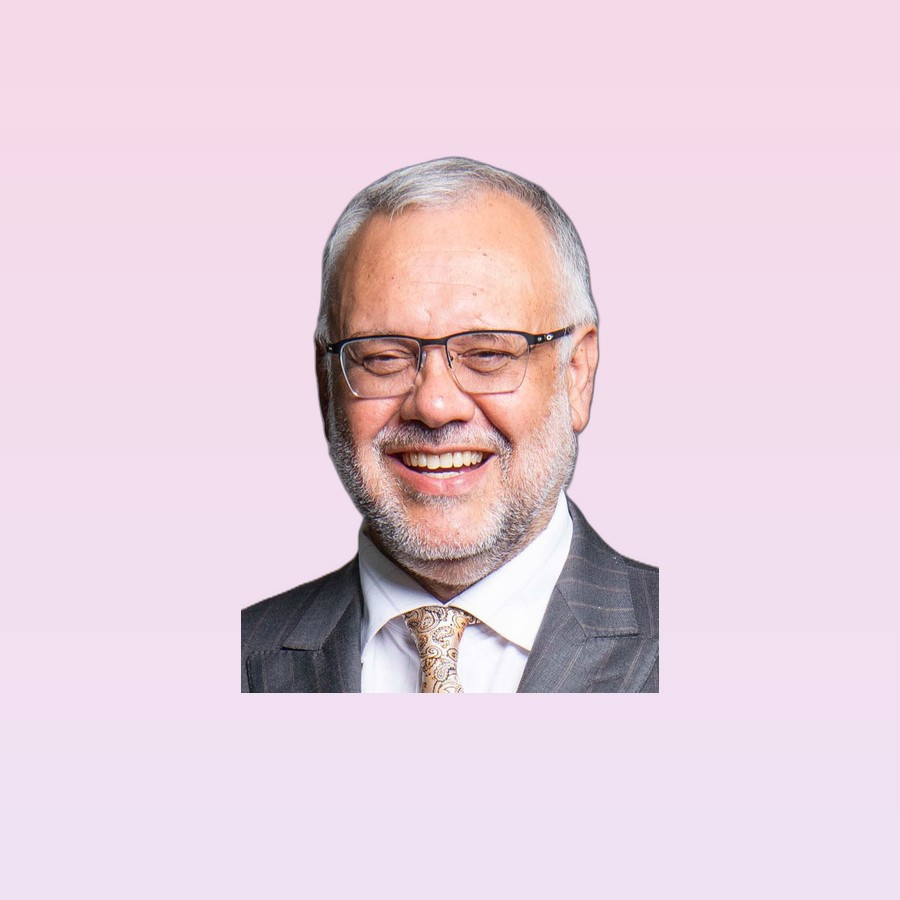
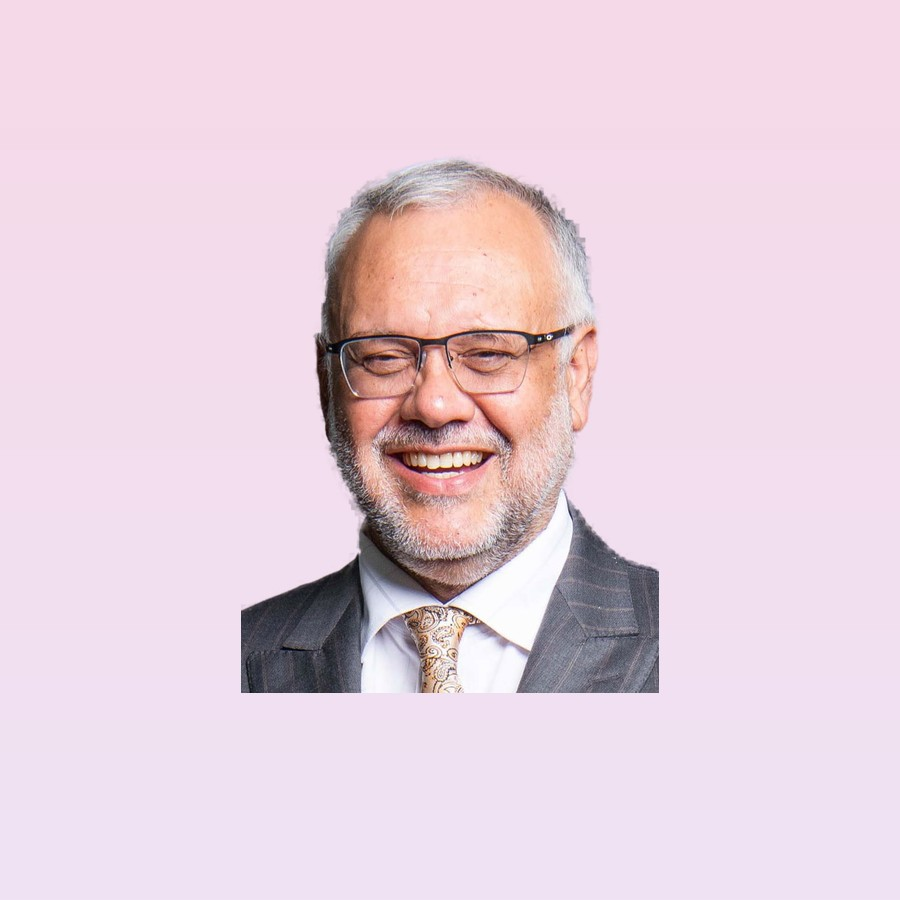
MT build: A2b — re-cut speaker tiles with alpha matting (clean edges)
Enable rembg alpha_matting (foreground-colour estimation kills dark spill) +
a gentle alpha erode/feather, fixing Rosieda's black box and the Adam/Shubnum/
Zohra dark halos; Ebrahim/Fatima/Aisha stay clean, native crops preserved.
process-speakers.py now also regenerates a faithful contact sheet (circle/arch
+ off-white ring + magenta-200 keyline) so edge defects verify as they render.

diff --git a/Muslima_Today/scripts/process-speakers.py b/Muslima_Today/scripts/process-speakers.py
@@ -1,28 +1,40 @@
 #!/usr/bin/env python3
-"""A2 — process the 7 Muslimah Today speaker photos into uniform portrait tiles.
+"""A2 / A2b — process the 7 Muslimah Today speaker photos into uniform portrait tiles.
 
 Pipeline (design/02 → Imagery D26, 04-assets A2):
   EXIF + face-detected auto-orient (fixes Shubnum's sideways landscape)
-  → rembg human-seg cut-out → face-aligned uniform crop (eyeline ~upper third,
-  consistent subject scale) → composite on the D26 standard speaker bg
+  → rembg human-seg cut-out (A2b: ALPHA MATTING on → clean edges, no dark halo)
+  → face-aligned uniform crop (eyeline ~upper third, consistent subject scale)
+  → composite on the D26 standard speaker bg
   (--mt-speaker-bg: magenta-100 #f6d9e8 → lilac-100 #efe3f4 vertical gradient),
   baked as a SQUARE tile.
+
+A2b — why this changed: the first cut (plain rembg) left a hard dark box on Rosieda
+and dark edge halos on Adam/Shubnum/Zohra (dark subject against a bright/dark bg →
+the matte kept a semi-transparent dark rim that reads as a halo on the light gradient).
+Fix: rembg `alpha_matting=True` re-estimates the edge alpha AND the true foreground
+colour (kills colour spill), then a gentle alpha erode+feather trims any residual rim.
 
 Note: the circular / arch mask + off-white ring are applied at BUILD via the CSS
 tokens (--radius-circle / --radius-arch, --mt-ring, --mt-border) so the same tile
 serves both the circular speaker grid and Ebrahim & Rosieda's arch headliner niche.
+The contact sheet written to .verify/ previews those masks faithfully (circle for the
+grid, arch for the two headliners, 4px off-white ring + 1px magenta-200 keyline) so
+edge defects are caught exactly as they will render.
+
 Run from repo root via Muslima_Today/.venv/bin/python.
 """
 import io, json, os
 import cv2
 import numpy as np
-from PIL import Image, ImageOps
+from PIL import Image, ImageOps, ImageDraw, ImageFont
 from rembg import new_session, remove
 
 RAW = "Muslima_Today/assets-raw/speakers"
 OUT = "src/assets/muslimah-today/speakers"
+VERIFY = "Muslima_Today/.verify"
 os.makedirs(OUT, exist_ok=True)
-os.makedirs("Muslima_Today/.verify", exist_ok=True)
+os.makedirs(VERIFY, exist_ok=True)
 
 SPEAKERS = [   # (source file, output stem, headliner?)
     ("Ebrahim Rasool.jpg",   "speaker-ebrahim-rasool",   True),
@@ -40,8 +52,13 @@ BOT = (239, 227, 244)   # lilac-100    #efe3f4
 FACE_FRAC = 0.30        # face-box width as fraction of canvas
 EYE_Y = 0.40            # vertical placement of the eye line
 MAX_UP = 2.4            # cap upscaling of low-res sources
-WORK_LONG = 3000        # rembg/crop working long side (keep detail; only downscale if bigger)
+WORK_LONG = 3000        # rembg/matting working long side — keep native detail so
+                        # small-in-frame faces (Fatima/Shubnum) crop crisp, not upscaled.
 DET_LONG = 1300         # face-detection copy long side (speed)
+
+# Design tokens for the verification contact sheet (must mirror design/02).
+OFFWHITE = (254, 253, 254, 255)   # --color-mt-offwhite #fefdfe (page ground)
+MAGENTA200 = (237, 179, 208, 255) # --color-mt-magenta-200 #edb3d0 (--mt-border keyline)
 
 # Manual face-box override (cx, cy=eye-line, width) as fractions of the oriented image,
 # for shots the cascade can't reliably detect. Shubnum's head is tilted against busy
@@ -115,7 +132,89 @@ def silhouette_face(cut):
     return (hx0, sy0, hw, int(hw * 1.2))   # approx head box
 
 
-report = []
+def cut_out(work):
+    """rembg cut-out with alpha matting (A2b). Matting re-estimates the boundary
+    alpha and the true foreground colour, removing the dark spill/halo that plain
+    masking leaves on dark subjects. Falls back to plain removal if matting fails."""
+    try:
+        return remove(
+            work, session=SESS,
+            alpha_matting=True,
+            alpha_matting_foreground_threshold=250,
+            alpha_matting_background_threshold=8,
+            alpha_matting_erode_size=15,
+            post_process_mask=True,
+        )
+    except Exception as e:                      # pragma: no cover — defensive
+        print(f"    [warn] alpha matting failed ({e}); falling back to plain remove")
+        return remove(work, session=SESS, post_process_mask=True)
+
+
+def clean_alpha(cut, long_side):
+    """Trim any residual dark rim: erode the alpha a hair, then feather for a clean
+    anti-aliased edge. Proportional to working res; small enough to preserve hair."""
+    arr = np.array(cut)
+    a = arr[..., 3]
+    r = max(1, round(long_side * 0.0016))       # ~2-3px at 1600
+    k = cv2.getStructuringElement(cv2.MORPH_ELLIPSE, (2 * r + 1, 2 * r + 1))
+    a = cv2.erode(a, k, iterations=1)
+    a = cv2.GaussianBlur(a, (0, 0), sigmaX=max(0.6, r * 0.6))
+    arr[..., 3] = a
+    return Image.fromarray(arr, "RGBA")
+
+
+# ── verification contact sheet (mirrors the build masks) ────────────────────────
+def shape_mask(S, shape):
+    """L-mode mask: 'circle' = --radius-circle 50%; 'arch' = --radius-arch
+    (semicircular top, radius-lg bottom corners → tombstone)."""
+    m = Image.new("L", (S, S), 0)
+    d = ImageDraw.Draw(m)
+    if shape == "circle":
+        d.ellipse([0, 0, S - 1, S - 1], fill=255)
+    else:
+        rb = round(S * 0.10)                     # radius-lg, scaled
+        d.rounded_rectangle([0, S // 2, S - 1, S - 1], radius=rb, fill=255)
+        d.ellipse([0, 0, S - 1, S - 1], fill=255)
+    return m
+
+
+def render_cell(tile, shape, S):
+    """Portrait masked to shape with 1px-equiv magenta keyline + off-white ring,
+    on the off-white page ground — exactly the build's portrait anatomy."""
+    key = max(1, round(S * 0.006))
+    ring = max(3, round(S * 0.020))
+    cell = Image.new("RGBA", (S, S), OFFWHITE)
+    cell.paste(Image.new("RGBA", (S, S), MAGENTA200), (0, 0), shape_mask(S, shape))
+    si = S - 2 * key
+    cell.paste(Image.new("RGBA", (si, si), OFFWHITE), (key, key), shape_mask(si, shape))
+    off = key + ring
+    inner = S - 2 * off
+    pin = tile.convert("RGBA").resize((inner, inner), Image.LANCZOS)
+    cell.paste(pin, (off, off), shape_mask(inner, shape))
+    return cell
+
+
+def contact_sheet(cells, labels, cols=4, cell=300):
+    pad, gap, lab = 24, 18, 26
+    rows = (len(cells) + cols - 1) // cols
+    W = pad * 2 + cols * cell + (cols - 1) * gap
+    H = pad * 2 + rows * (cell + lab) + (rows - 1) * gap
+    sheet = Image.new("RGB", (W, H), (254, 253, 254))
+    d = ImageDraw.Draw(sheet)
+    try:
+        font = ImageFont.truetype("/usr/share/fonts/truetype/dejavu/DejaVuSans.ttf", 16)
+    except Exception:
+        font = ImageFont.load_default()
+    for i, (c, label) in enumerate(zip(cells, labels)):
+        r, col = divmod(i, cols)
+        x = pad + col * (cell + gap)
+        y = pad + r * (cell + lab + gap)
+        sheet.paste(c.resize((cell, cell), Image.LANCZOS), (x, y), c.resize((cell, cell), Image.LANCZOS))
+        d.text((x, y + cell + 5), label, fill=(42, 34, 40), font=font)
+    return sheet
+
+
+report, cells, labels = [], [], []
 for fn, stem, headliner in SPEAKERS:
     src = os.path.join(RAW, fn)
     orig = ImageOps.exif_transpose(Image.open(src)).convert("RGB")
@@ -123,9 +222,9 @@ for fn, stem, headliner in SPEAKERS:
     ang = best_orientation(downscale(orig, 1100))
     orig = rotate(orig, ang)
 
-    work = downscale(orig, WORK_LONG)           # high-res working copy (rembg + crop)
+    work = downscale(orig, WORK_LONG)           # working copy (rembg + crop)
     ww, wh = work.size
-    cut = remove(work, session=SESS)            # RGBA at work res
+    cut = clean_alpha(cut_out(work), max(ww, wh))   # RGBA, matted + edge-cleaned
     used_silhouette = False
     if stem in MANUAL:
         cxf, cyf, wf = MANUAL[stem]
@@ -156,6 +255,10 @@ for fn, stem, headliner in SPEAKERS:
     out = os.path.join(OUT, stem + ".jpg")     # opaque tile (gradient fills it) → JPEG per naming
     canvas.convert("RGB").save(out, "JPEG", quality=90, optimize=True, progressive=True)
     kb = os.path.getsize(out) // 1024
+
+    cells.append(render_cell(canvas, "arch" if headliner else "circle", CANVAS))
+    labels.append(f"{stem.replace('speaker-','')} {'ARCH' if headliner else 'circle'} "
+                  f"s{scale:.2f}{' UP' if upscaled else ''}{' SIL' if used_silhouette else ''}")
     report.append({"stem": stem, "src": fn, "src_dims": [sw, sh], "orient": ang,
                    "face_w_px": int(fw), "scale": round(scale, 2), "upscaled": upscaled,
                    "silhouette": used_silhouette, "headliner": headliner, "kb": kb})
@@ -163,6 +266,8 @@ for fn, stem, headliner in SPEAKERS:
           f"scale={scale:.2f}{' UP' if upscaled else '  '} "
           f"{'SILHOUETTE' if used_silhouette else ''} -> {kb}KB")
 
-with open("Muslima_Today/.verify/speakers-report.json", "w") as f:
+contact_sheet(cells, labels).save(os.path.join(VERIFY, "speakers-contact-sheet.png"))
+with open(os.path.join(VERIFY, "speakers-report.json"), "w") as f:
     json.dump(report, f, indent=2)
 print(f"\nWrote {len(report)} speaker tiles -> {OUT}")
+print(f"Contact sheet -> {VERIFY}/speakers-contact-sheet.png")
